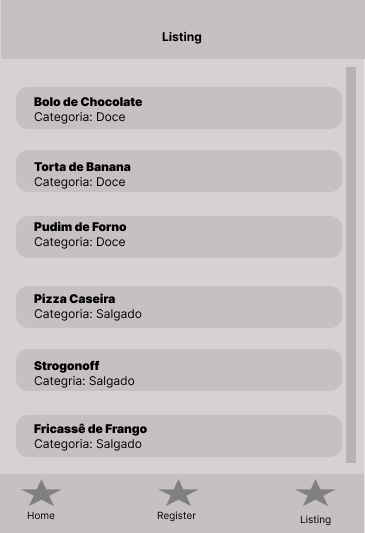
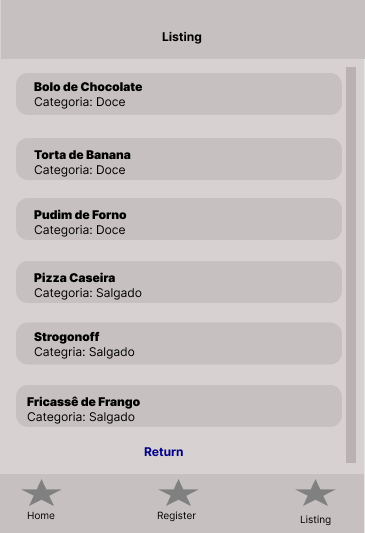
first test

diff --git a/src/pages/Register.jsx b/src/pages/Register.jsx
@@ -6,6 +6,7 @@ import {
   SafeAreaView,
   ScrollView,
   Button,
+  KeyboardAvoidingView,
 } from "react-native";
 import React from "react";
 
@@ -22,55 +23,58 @@ export default function Register({ navigation }) {
     navigation.navigate("Home");
   };
 
-  const [nameRecipe, mostrarName] = React.useState(
-    "Adicione aqui o nome da receita"
-  );
-  const [category, mostrarCategory] = React.useState("Doce ou Salgado?");
-  const [ingredients, mostrarIngredients] = React.useState(
-    "Adicione os ingredientes"
-  );
-  const [preparation, mostrarPreparation] = React.useState(
-    "Adicione o modo de preparação"
-  );
+  const [nameRecipe, mostrarName] = React.useState("");
+  const [category, mostrarCategory] = React.useState("");
+  const [ingredients, mostrarIngredients] = React.useState("");
+  const [preparation, mostrarPreparation] = React.useState("");
 
   return (
-    <ScrollView style={styles.scrow}>
-      <View style={styles.container}>
-        <Text style={styles.title}>Nome da Receita</Text>
-        <TextInput
-          style={styles.inputText}
-          mostrarName={(text) => mostrarName(text)}
-          value={nameRecipe}
-        ></TextInput>
-        <Text style={styles.title}>Categoria</Text>
-        <TextInput
-          style={styles.inputText}
-          mostrarCategory={(text) => mostrarCategory(text)}
-          value={category}
-        ></TextInput>
-        <Text style={styles.title}>Ingredientes</Text>
-        <TextInput
-          style={styles.inputText}
-          mostrarIngredients={(text) => mostrarIngredients(text)}
-          value={ingredients}
-        ></TextInput>
+    <KeyboardAvoidingView
+      behavior={Platform.OS === "ios" ? "padding" : "height"}
+      style={styles.scrow}
+    >
+      <ScrollView style={styles.scrow}>
+        <View style={styles.container}>
+          <Text style={styles.title}>Nome da Receita</Text>
+          <TextInput
+            style={styles.inputText}
+            mostrarName={(text) => mostrarName(text)}
+            value={nameRecipe}
+            placeholder="Adicione aqui o nome da receita"
+          ></TextInput>
+          <Text style={styles.title}>Categoria</Text>
+          <TextInput
+            style={styles.inputText}
+            mostrarCategory={(text) => mostrarCategory(text)}
+            value={category}
+            placeholder="Doce ou Salgado?"
+          ></TextInput>
+          <Text style={styles.title}>Ingredientes</Text>
+          <TextInput
+            style={styles.inputText}
+            mostrarIngredients={(text) => mostrarIngredients(text)}
+            value={ingredients}
+            placeholder="Adicione os ingredientes"
+          ></TextInput>
 
-        <Text style={styles.title}>Modo de Preparo</Text>
-        <TextInput
-          multiline
-          numberOfLines={50}
-          maxLength={500}
-          style={styles.inputText}
-          mostrarPreparation={(text) => mostrarPreparation(text)}
-          value={preparation}
-        ></TextInput>
+          <Text style={styles.title}>Modo de Preparo</Text>
+          <TextInput
+            multiline
+            numberOfLines={50}
+            maxLength={500}
+            style={styles.inputText}
+            mostrarPreparation={(text) => mostrarPreparation(text)}
+            value={preparation}
+            placeholder="Adicione o modo de preparação"
+          ></TextInput>
 
-        <Text style={styles.title}>Tem uma foto? Adicione aqui:</Text>
-        <Button style={styles.button} title="Search" onPress={register} />
+          <Text style={styles.title}>Tem uma foto? Adicione aqui:</Text>
+          <Button style={styles.button} title="Search" onPress={register} />
 
-        <Button style={styles.button} title="Register" onPress={register} />
-      </View>
-    </ScrollView>
+          <Button style={styles.button} title="Register" onPress={register} />
+        </View>
+      </ScrollView>
+    </KeyboardAvoidingView>
   );
 }
 
@@ -97,7 +101,6 @@ const styles = StyleSheet.create({
     paddingTop: 10,
     height: "100%",
     paddingBottom: 20,
-    padding: 8,
   },
   title: {
     textAlign: "left",

diff --git a/src/pages/Listing.jsx b/src/pages/Listing.jsx
@@ -4,6 +4,7 @@ import {
   Text,
   SectionList,
   SafeAreaView,
+  Button,
 } from "react-native";
 import React from "react";
 
@@ -14,18 +15,23 @@ import recipes from "../services/recipes";
 const Item = ({ item }) => (
   <View style={styles.item}>
     <Text>{item.id}</Text>
-    <Text>{item.recipe}</Text>
+    <Text style={styles.id}>{item.recipe}</Text>
   </View>
 );
 
-export default function Listing() {
+export default function Listing({ navigation }) {
+  const register = () => {
+    navigation.navigate("Home");
+  };
   return (
     <SafeAreaView style={styles.container}>
       <SectionList
         sections={recipes}
         keyExtractor={(item) => item.id.toString()}
         renderItem={({ item }) => <Item item={item}></Item>}
+        style={styles.scrow}
       ></SectionList>
+      <Button style={styles.button} title="Return" onPress={register} />
     </SafeAreaView>
   );
 }
@@ -39,12 +45,29 @@ const styles = StyleSheet.create({
     alignItems: "stretch",
     justifyContent: "space-between",
     padding: 8,
-    marginTop: 24,
+    paddingTop: 24,
   },
   item: {
     borderWidth: 1,
-    borderRadius: 4,
+    borderRadius: 10,
     backgroundColor: "#DCDCDC",
     margin: 4,
+    padding: 8,
+    height: 60,
+    marginBottom: 50,
+  },
+  scrow: {
+    backgroundColor: "#DCDCDC",
+    paddingTop: 10,
+    height: "100%",
+    paddingBottom: 20,
+    padding: 8,
+  },
+  id: {
+    fontWeight: "bold",
+    fontStyle: "italic",
+  },
+  button: {
+    paddingBottom: 50,
   },
 });

diff --git a/src/services/recipes.js b/src/services/recipes.js
@@ -59,3 +59,4 @@ const recipes = [
     ],
   },
 ];
+export default recipes;

diff --git a/Readme.md b/Readme.md
@@ -1,7 +1,5 @@
 ## Carolla Food
 
-teste
-
 ##### O Carolla Food tem como finalidade a inserção e visualização de receitas culinárias. Ele contará com 4 telas:
 
 ### Home
@@ -38,11 +36,15 @@ teste
 
 _Essa página conta também com um botão **Register**, para que os dados inseridos fiquem salvos na base de dados._
 
+_Ambos os botões estão apontando para a **Home** apenas para testes iniciais._
+
 ![This is a alt text.](/wireframes/Register.png "Tela para cadastrar receitas.")
 
 ### Listagem das receitas
 
 ###### Tela especifica para a listagem das receitas já inseridas no aplicativo, mostrado da seguinte forma com o nome da receita em negrito, e a categoria (se é doce ou salgada).
+
+_Essa página conta também com um botão **Return**, que quando clicado, volta para a página principal._
 
 ![This is a alt text.](/wireframes/Listing.png "Tela para listagem das receitas.")
 
